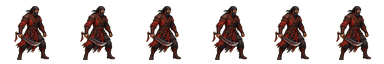
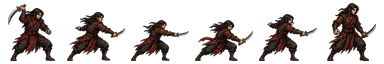
Redo xie jiao enemy from GPT sheet

diff --git a/tools/cut_task41_xie_jiao_sheet.py b/tools/cut_task41_xie_jiao_sheet.py
@@ -1,0 +1,131 @@
+#!/usr/bin/env python3
+from pathlib import Path
+from PIL import Image
+
+ROOT = Path(__file__).resolve().parents[1]
+SRC = ROOT / "assets/source/task41/xie_jiao_anim_sheet_v1.png"
+OUT_DIR = ROOT / "assets/characters/enemies/xie_jiao"
+
+FRAME_BOXES = {
+    "idle": [
+        (68, 19, 279, 256),
+        (351, 18, 549, 256),
+        (602, 20, 800, 256),
+        (854, 24, 1035, 256),
+    ],
+    "attack": [
+        (49, 257, 260, 500),
+        (279, 271, 542, 500),
+        (546, 282, 836, 500),
+        (815, 304, 1076, 500),
+        (1100, 282, 1360, 500),
+        (1362, 286, 1562, 510),
+    ],
+    "hurt": [
+        (64, 510, 286, 728),
+        (338, 513, 564, 729),
+        (585, 556, 790, 728),
+    ],
+    "death": [
+        (38, 742, 322, 900),
+        (335, 803, 672, 904),
+        (692, 807, 1046, 908),
+        (1068, 806, 1440, 908),
+    ],
+}
+
+
+def white_to_alpha(im):
+    im = im.convert("RGBA")
+    px = im.load()
+    for y in range(im.height):
+        for x in range(im.width):
+            r, g, b, a = px[x, y]
+            dist = max(0, 255 - min(r, g, b))
+            if r > 238 and g > 238 and b > 238:
+                px[x, y] = (r, g, b, 0)
+            elif r > 220 and g > 220 and b > 220:
+                px[x, y] = (r, g, b, min(a, dist * 7))
+    return im
+
+
+def remove_small_fragments(im, min_area=20):
+    alpha = im.getchannel("A")
+    w, h = im.size
+    pix = alpha.load()
+    seen = set()
+    comps = []
+    for y in range(h):
+        for x in range(w):
+            if pix[x, y] <= 8 or (x, y) in seen:
+                continue
+            stack = [(x, y)]
+            seen.add((x, y))
+            pts = []
+            while stack:
+                px, py = stack.pop()
+                pts.append((px, py))
+                for nx in (px - 1, px, px + 1):
+                    for ny in (py - 1, py, py + 1):
+                        if nx < 0 or ny < 0 or nx >= w or ny >= h or (nx, ny) in seen:
+                            continue
+                        if pix[nx, ny] > 8:
+                            seen.add((nx, ny))
+                            stack.append((nx, ny))
+            comps.append(pts)
+    keep = set()
+    for pts in comps:
+        if len(pts) >= min_area:
+            keep.update(pts)
+    out = Image.new("RGBA", im.size, (0, 0, 0, 0))
+    src = im.load()
+    dst = out.load()
+    for x, y in keep:
+        dst[x, y] = src[x, y]
+    return out
+
+
+def strip_edge_alpha(im):
+    px = im.load()
+    w, h = im.size
+    for x in range(w):
+        px[x, 0] = px[x, 0][:3] + (0,)
+        px[x, h - 1] = px[x, h - 1][:3] + (0,)
+    for y in range(h):
+        px[0, y] = px[0, y][:3] + (0,)
+        px[w - 1, y] = px[w - 1, y][:3] + (0,)
+    return im
+
+
+def fit_frame(crop, size=64, pad=3):
+    crop = remove_small_fragments(white_to_alpha(crop))
+    bbox = crop.getchannel("A").getbbox()
+    out = Image.new("RGBA", (size, size), (0, 0, 0, 0))
+    if not bbox:
+        return out
+    spr = crop.crop(bbox)
+    scale = min((size - pad * 2) / spr.width, (size - pad * 2) / spr.height)
+    nw = max(1, int(spr.width * scale))
+    nh = max(1, int(spr.height * scale))
+    spr = spr.resize((nw, nh), Image.Resampling.LANCZOS)
+    out.alpha_composite(spr, ((size - nw) // 2, size - pad - nh))
+    return strip_edge_alpha(remove_small_fragments(out))
+
+
+def join(frames):
+    out = Image.new("RGBA", (64 * len(frames), 64), (0, 0, 0, 0))
+    for i, fr in enumerate(frames):
+        out.alpha_composite(fr, (i * 64, 0))
+    return out
+
+
+def main():
+    sheet = Image.open(SRC).convert("RGBA")
+    OUT_DIR.mkdir(parents=True, exist_ok=True)
+    for anim, boxes in FRAME_BOXES.items():
+        frames = [fit_frame(sheet.crop(box)) for box in boxes]
+        join(frames).save(OUT_DIR / f"{anim}.png")
+
+
+if __name__ == "__main__":
+    main()
